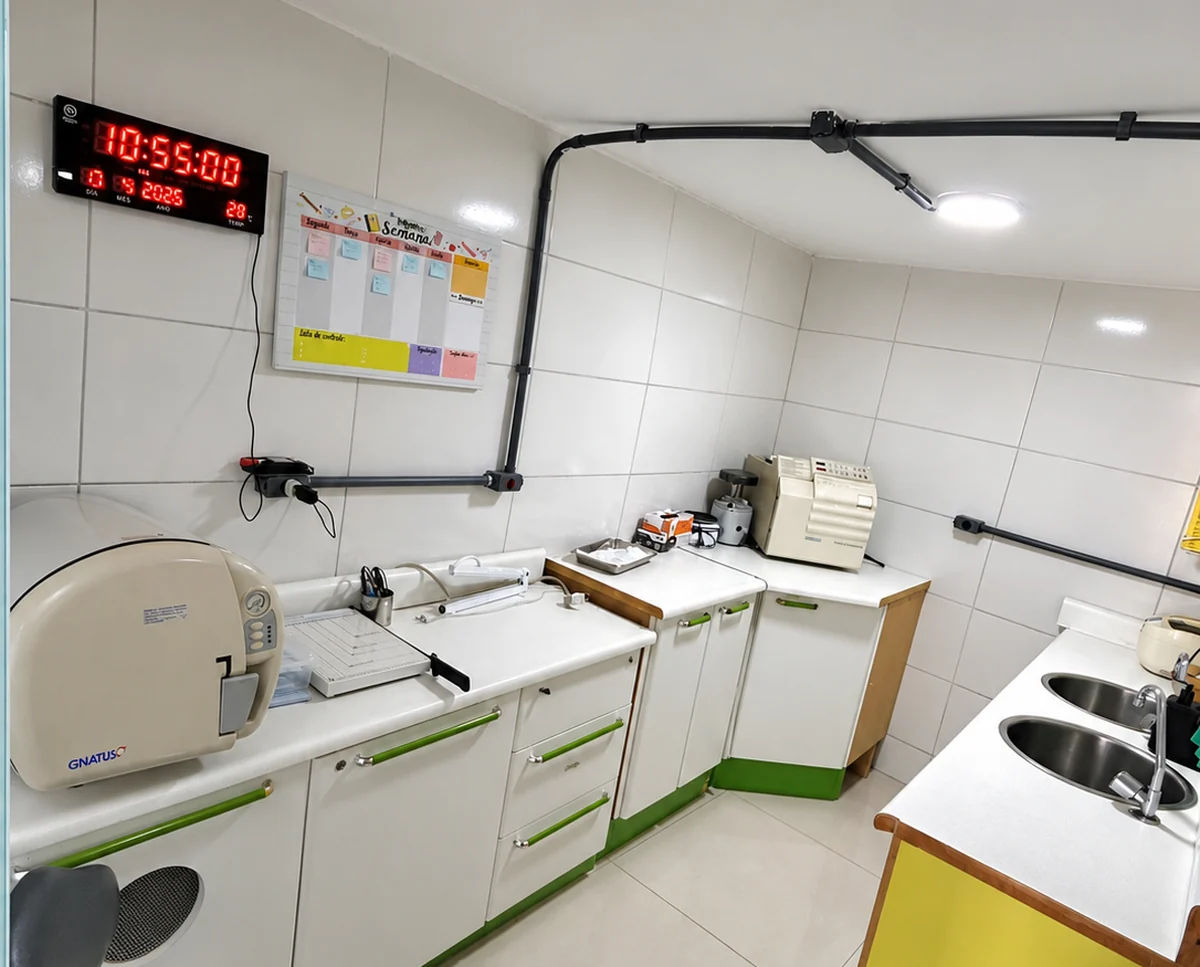
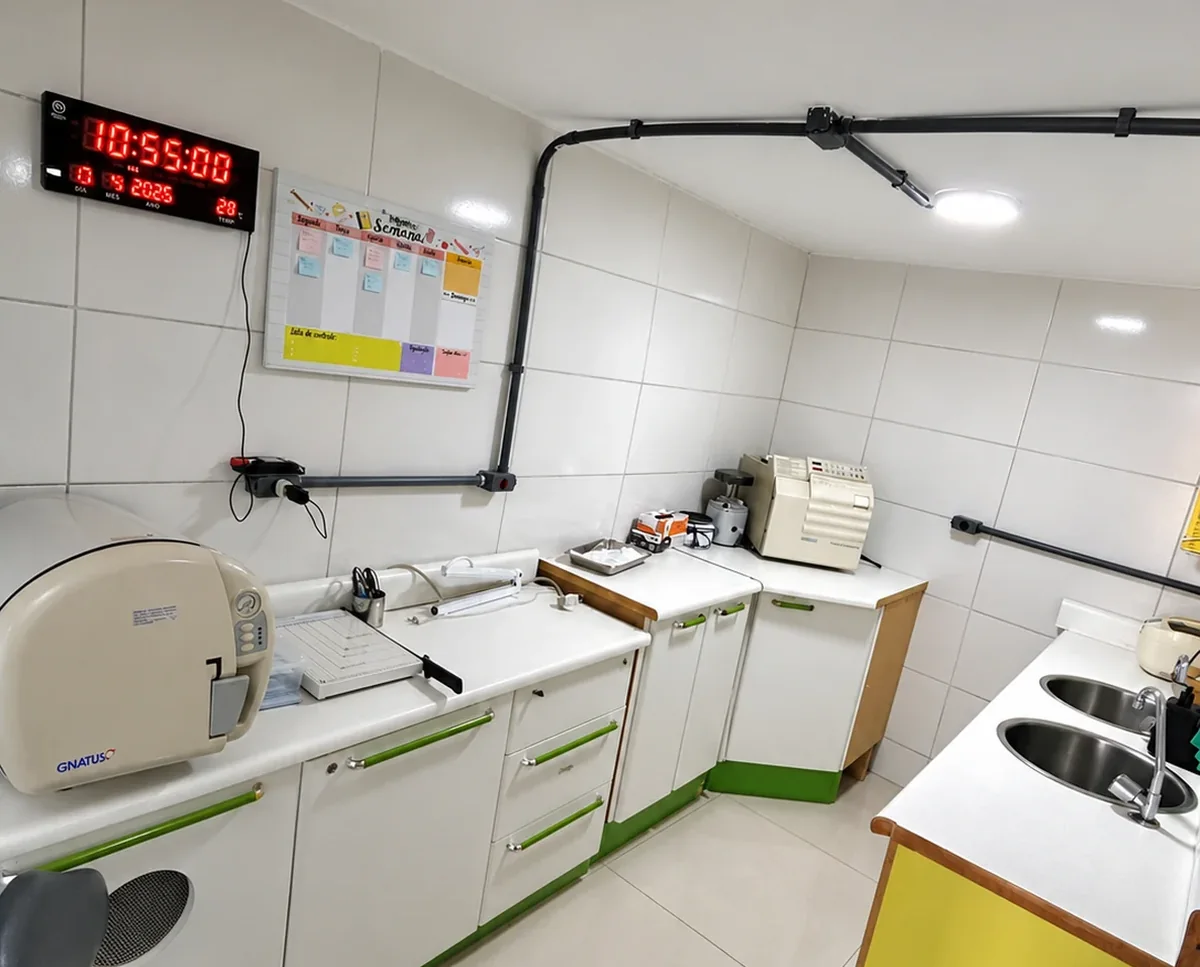
fix(site): inscrição da clínica no CRO, CRO de quem o depoimento cita e acabamentos
- Inscrição da clínica (PJ) no CRO-SP — "CRO 4491", como está no letreiro
  atual da fachada — na linha legal do rodapé e das landings (art. 43 do
  Código de Ética). Fonte anotada em CLINICA.inscricaoCro.
- O depoimento que cita a Dra. Ana Beatriz mostra o CROSP dela ao lado
  (Res. CFO 196/2019), lido de EQUIPE; o texto do paciente não muda.
- Logo do rodapé na versão original numa placa branca: a versão clara
  deixava o nome verde sobre o verde do rodapé.
- Foto da esterilização sem a faixa azulada da borda esquerda.

Verificado: tsc, eslint, vitest (src/lib) 2489/2489, E2E público 96/96,
capturas do rodapé em 1440 e 390.

diff --git a/src/components/site/ui/CarrosselAvaliacoes.tsx b/src/components/site/ui/CarrosselAvaliacoes.tsx
@@ -3,7 +3,7 @@ import useEmblaCarousel from "embla-carousel-react";
 import Autoplay from "embla-carousel-autoplay";
 import { ChevronLeft, ChevronRight, Quote } from "lucide-react";
 
-import type { Depoimento } from "@/lib/jp";
+import { EQUIPE, RESPONSAVEL_TECNICA, type Depoimento } from "@/lib/jp";
 import { querMenosMovimento } from "@/components/site/sistema/ambiente";
 
 import "./ui.css";
@@ -27,9 +27,17 @@ const LIMITE_DE_CARACTERES = 220;
  * os cartões vizinhos não ficarem com um vão enorme) e abre no botão. Nada de
  * reticências sem saída — é a palavra de um paciente real.
  */
+/** O CRO de quem o depoimento cita, lido da equipe (fonte única do registro). */
+function registroDe(nome: string | undefined): string | undefined {
+  if (nome === undefined) return undefined;
+  if (RESPONSAVEL_TECNICA.nome === nome) return RESPONSAVEL_TECNICA.registro;
+  return EQUIPE.find((m) => m.nome === nome)?.registro;
+}
+
 function CartaoDepoimento({ depoimento: d }: { depoimento: Depoimento }) {
   const [aberto, setAberto] = useState(false);
   const longo = d.texto.length > LIMITE_DE_CARACTERES;
+  const registro = registroDe(d.cita);
 
   return (
     <figure className="cartao flex h-full flex-col gap-5 p-6 sm:p-7">
@@ -65,6 +73,11 @@ function CartaoDepoimento({ depoimento: d }: { depoimento: Depoimento }) {
           <span className="text-pequeno text-[var(--tinta-suave)]">Avaliação no Google</span>
         </span>
       </figcaption>
+      {d.cita && registro && (
+        <p className="-mt-2 text-pequeno text-[var(--tinta-suave)]">
+          Profissional do atendimento: {d.cita} · {registro}
+        </p>
+      )}
     </figure>
   );
 }

diff --git a/src/lib/jp.ts b/src/lib/jp.ts
@@ -74,6 +74,14 @@ export const CLINICA = {
   nome: "JP Clínica Integrada Odontológica",
   razaoSocial: "J P Clínica Integrada Odontológica LTDA",
   cnpj: "42.401.404/0001-37",
+  /**
+   * Inscrição da CLÍNICA (pessoa jurídica) no CRO-SP — o art. 43 do Código de
+   * Ética exige o número da PJ em toda divulgação. Lido no letreiro atual da
+   * fachada ("CRO 4491", foto de 2026 em src/assets/fachada-2026-completa.webp)
+   * em 06/11/2026; não achei consulta pública online para conferir. Se a
+   * clínica corrigir, muda só aqui.
+   */
+  inscricaoCro: "CRO-SP 4491",
   assinatura: "Ver seu sorriso é nossa missão.",
   telefone: "(11) 3975-9902",
   telefoneHref: "tel:+551139759902",
@@ -287,12 +295,20 @@ export const FUNDADORA = {
 export type Depoimento = {
   autor: string;
   texto: string;
+  /**
+   * Nome (como está em EQUIPE) do dentista que o depoimento cita. O cartão
+   * mostra o CRO ao lado: a Res. CFO 196/2019 pede nome + inscrição de
+   * profissional citado em publicação, e o texto do paciente não pode ser
+   * editado para incluir.
+   */
+  cita?: string;
 };
 
 /** O primeiro entra em destaque; os quatro seguintes formam a grade. */
 export const DEPOIMENTOS: Depoimento[] = [
   {
     autor: "Mari Nozzolillo",
+    cita: "Dra. Ana Beatriz",
     texto:
       "Estou muito satisfeita com a atendimento da Clínica, fui atendida pela Dra Ana Beatriz que fez a extração do meu dente com muita calma e paciência, me esclareceu todos os procedimentos que iria fazer e foi muito cuidadosa em todo momento. Um ambiente limpo, organizado e aconchegante. Super indico com certeza!",
   },

diff --git a/src/components/site/Footer.tsx b/src/components/site/Footer.tsx
@@ -99,13 +99,17 @@ export function Footer({ chamada = true }: { chamada?: boolean }) {
             {/* Com alt, diferente das outras telas: aqui a marca não vem dentro
                 de um link nomeado nem ao lado do nome escrito, então ela é a
                 única coisa que apresenta o bloco de contato. */}
-            <Logo
-              variante="lockup"
-              fundo="escuro"
-              altura={80}
-              alt={CLINICA.nome}
-              className="h-[72px] w-auto"
-            />
+            {/* A logo original numa placa branca: a versão "clara" deixava o
+                nome em verde sobre o verde do rodapé, quase ilegível. */}
+            <span className="rodape-logo-placa">
+              <Logo
+                variante="lockup"
+                fundo="claro"
+                altura={64}
+                alt={CLINICA.nome}
+                className="h-[52px] w-auto"
+              />
+            </span>
             <address className="rodape-endereco text-pequeno not-italic">
               <a
                 href={CLINICA.mapsHref}
@@ -219,7 +223,7 @@ export function Footer({ chamada = true }: { chamada?: boolean }) {
               Responsável técnica: {RESPONSAVEL_TECNICA.nome} — {RESPONSAVEL_TECNICA.registro}
             </p>
             <p>
-              {CLINICA.razaoSocial} • CNPJ {CLINICA.cnpj}
+              {CLINICA.razaoSocial} • CNPJ {CLINICA.cnpj} • Inscrição {CLINICA.inscricaoCro}
             </p>
             <p>
               Conteúdo informativo. Indicações e resultados dependem de avaliação profissional

diff --git a/src/components/site/lp/Secoes.tsx b/src/components/site/lp/Secoes.tsx
@@ -758,7 +758,7 @@ export function Rodape({ aviso }: { aviso: string }) {
             Responsável técnica: {RESPONSAVEL_TECNICA.nome} — {RESPONSAVEL_TECNICA.registro}
           </p>
           <p>
-            {CLINICA.razaoSocial} · CNPJ {CLINICA.cnpj}
+            {CLINICA.razaoSocial} · CNPJ {CLINICA.cnpj} · Inscrição {CLINICA.inscricaoCro}
           </p>
           <p className="mt-3 max-w-[70ch]">{aviso}</p>
         </div>

diff --git a/src/components/site/global/rodape.css b/src/components/site/global/rodape.css
@@ -60,6 +60,13 @@
     }
   }
 
+  .rodape-logo-placa {
+    display: inline-flex;
+    align-self: flex-start;
+    padding: 0.75rem 1rem;
+    border-radius: var(--raio);
+    background: var(--branco);
+  }
   .rodape-endereco {
     display: grid;
     gap: 0.25rem;
